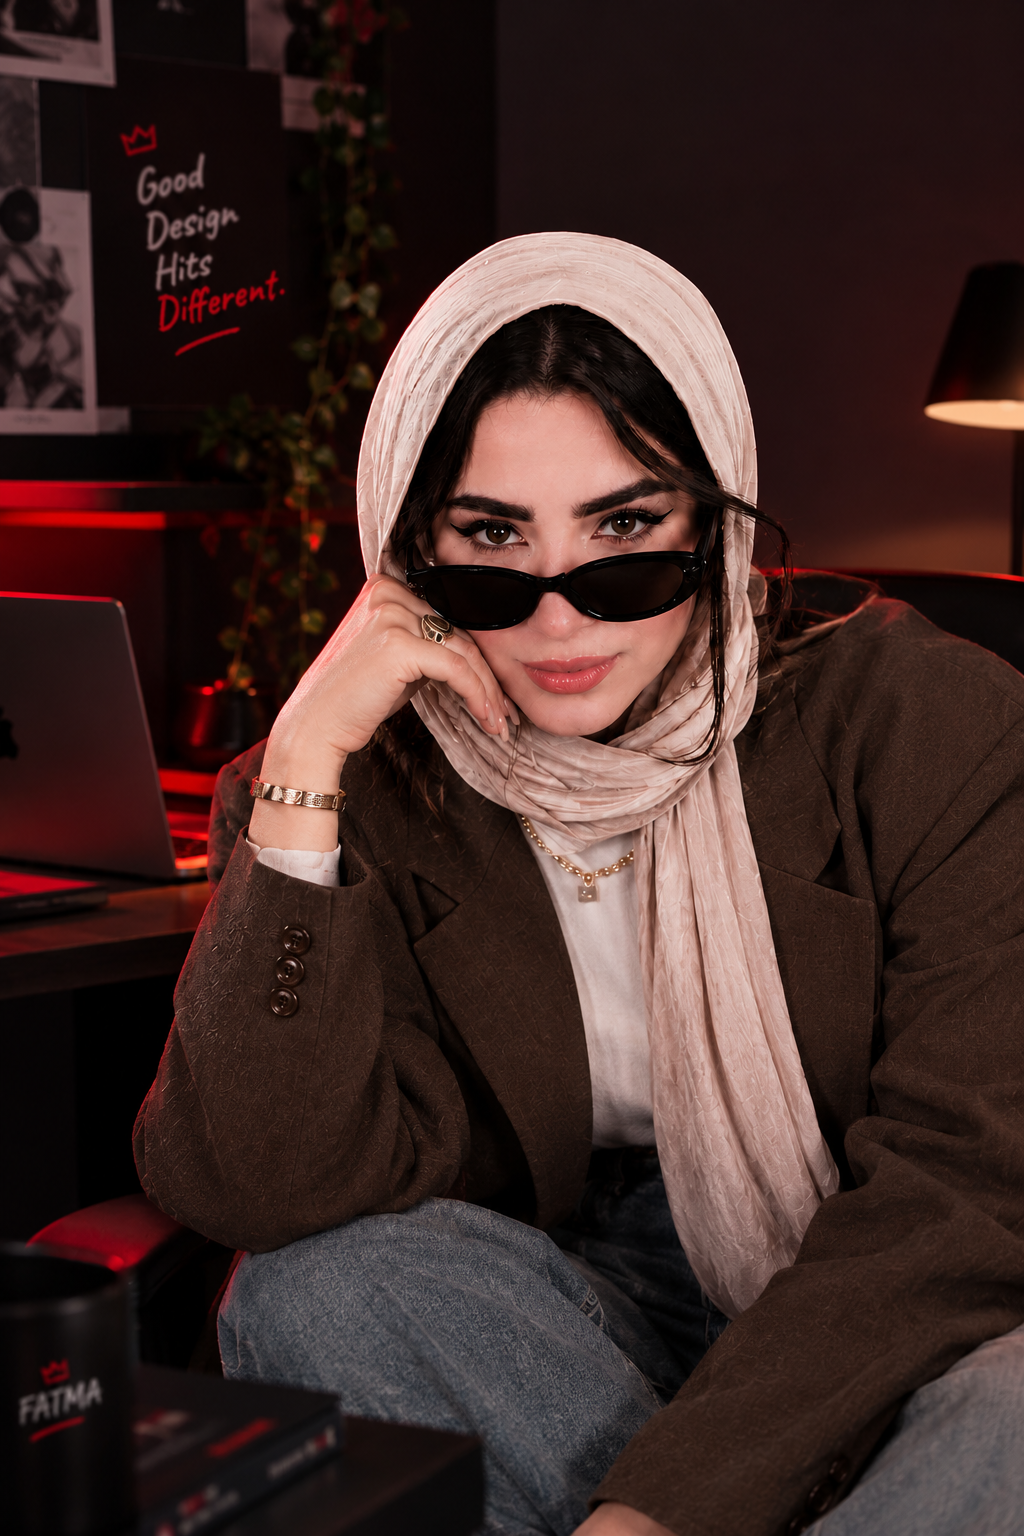
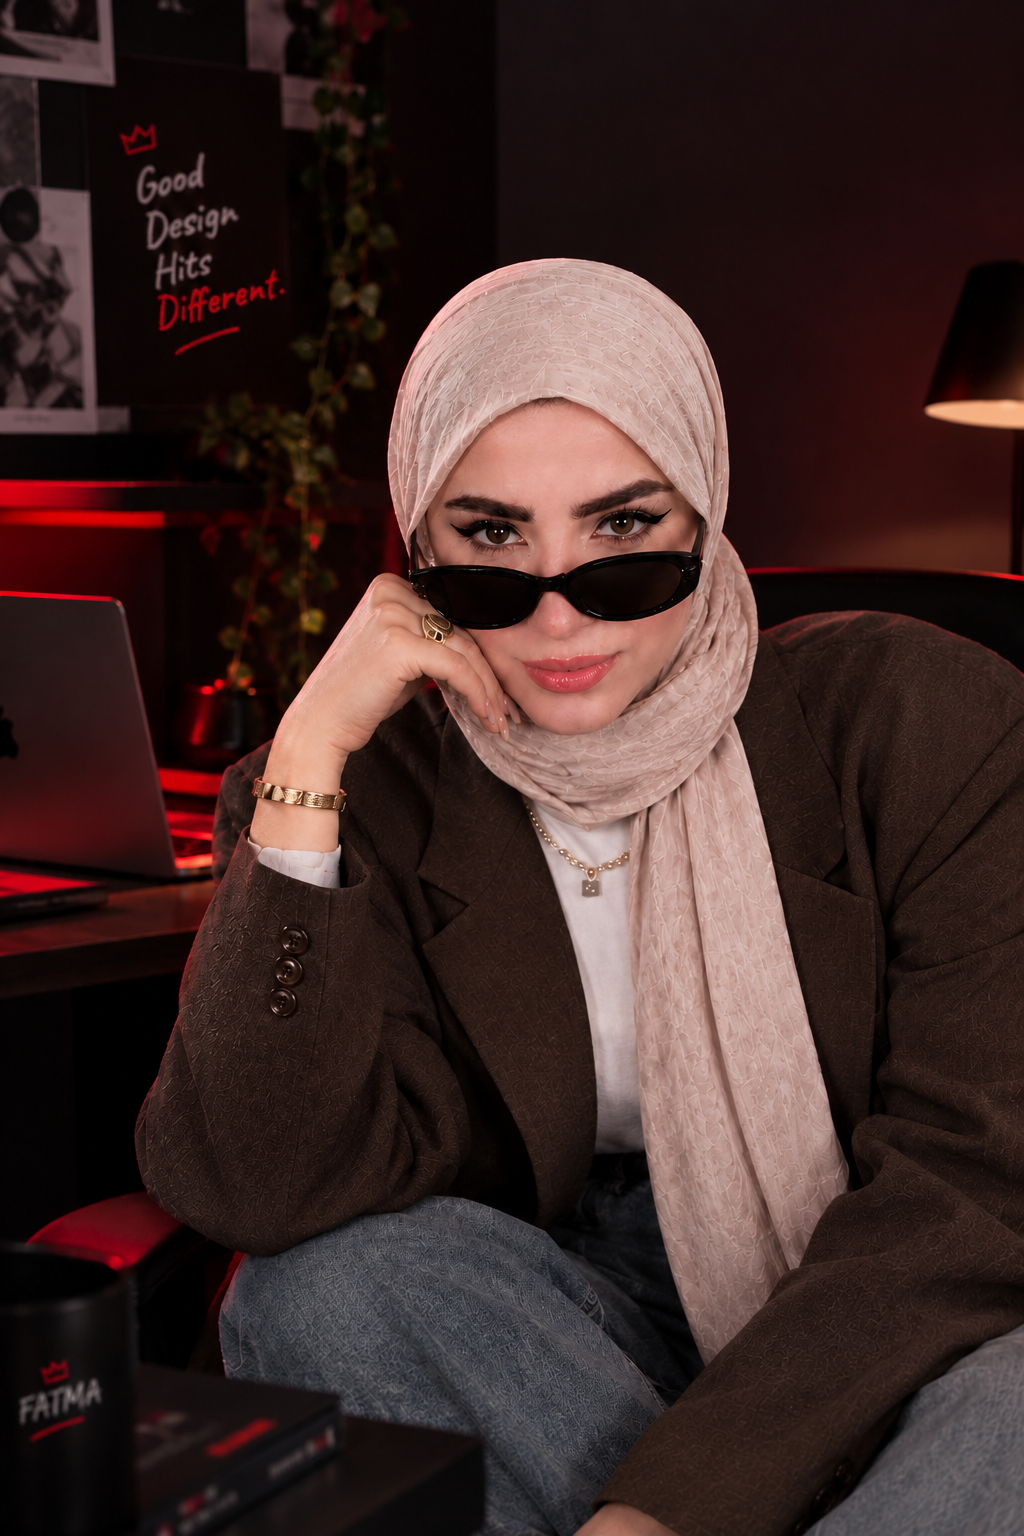
Update website

diff --git a/index.html b/index.html
@@ -444,7 +444,33 @@ html{scroll-snap-type:y proximity}
 </section>
 
 <!-- BRAND PROJECTS -->
-<section class="sec light brand-work" id="work" aria-labelledby="anua-title">
+<section class="sec light brand-work" id="work" aria-labelledby="mockups-title">
+ <header class="brand-head">
+  <span class="tag">Mockup Gallery</span>
+  <h2 class="brand-title" id="mockups-title">Mock Ups</h2>
+  <p class="brand-intro">A selection of design mockups and visual presentations.</p>
+  <span class="brand-index">Design</span>
+ </header>
+ <div class="brand-gallery">
+  <figure class="brand-art"><img src="portfolio/mock%20ups/1.png" alt="Mockup design 1" loading="lazy"><figcaption>Mockup 01</figcaption></figure>
+  <figure class="brand-art"><img src="portfolio/mock%20ups/2.png" alt="Mockup design 2" loading="lazy"><figcaption>Mockup 02</figcaption></figure>
+  <figure class="brand-art"><img src="portfolio/mock%20ups/3.png" alt="Mockup design 3" loading="lazy"><figcaption>Mockup 03</figcaption></figure>
+  <figure class="brand-art"><img src="portfolio/mock%20ups/4.png" alt="Mockup design 4" loading="lazy"><figcaption>Mockup 04</figcaption></figure>
+  <figure class="brand-art"><img src="portfolio/mock%20ups/5.png" alt="Mockup design 5" loading="lazy"><figcaption>Mockup 05</figcaption></figure>
+  <figure class="brand-art"><img src="portfolio/mock%20ups/6.png" alt="Mockup design 6" loading="lazy"><figcaption>Mockup 06</figcaption></figure>
+  <figure class="brand-art"><img src="portfolio/mock%20ups/7.png" alt="Mockup design 7" loading="lazy"><figcaption>Mockup 07</figcaption></figure>
+  <figure class="brand-art"><img src="portfolio/mock%20ups/8.png" alt="Mockup design 8" loading="lazy"><figcaption>Mockup 08</figcaption></figure>
+  <figure class="brand-art"><img src="portfolio/mock%20ups/9.png" alt="Mockup design 9" loading="lazy"><figcaption>Mockup 09</figcaption></figure>
+  <figure class="brand-art"><img src="portfolio/mock%20ups/10.png" alt="Mockup design 10" loading="lazy"><figcaption>Mockup 10</figcaption></figure>
+  <figure class="brand-art"><img src="portfolio/mock%20ups/11.png" alt="Mockup design 11" loading="lazy"><figcaption>Mockup 11</figcaption></figure>
+  <figure class="brand-art"><img src="portfolio/mock%20ups/12.png" alt="Mockup design 12" loading="lazy"><figcaption>Mockup 12</figcaption></figure>
+  <figure class="brand-art"><img src="portfolio/mock%20ups/13.png" alt="Mockup design 13" loading="lazy"><figcaption>Mockup 13</figcaption></figure>
+  <figure class="brand-art"><img src="portfolio/mock%20ups/14.png" alt="Mockup design 14" loading="lazy"><figcaption>Mockup 14</figcaption></figure>
+  <figure class="brand-art"><img src="portfolio/mock%20ups/15.png" alt="Mockup design 15" loading="lazy"><figcaption>Mockup 15</figcaption></figure>
+ </div>
+</section>
+
+<section class="sec light brand-work" aria-labelledby="anua-title">
  <header class="brand-head">
   <span class="tag">Selected Brand / 01</span>
   <h2 class="brand-title" id="anua-title">Anua</h2>
